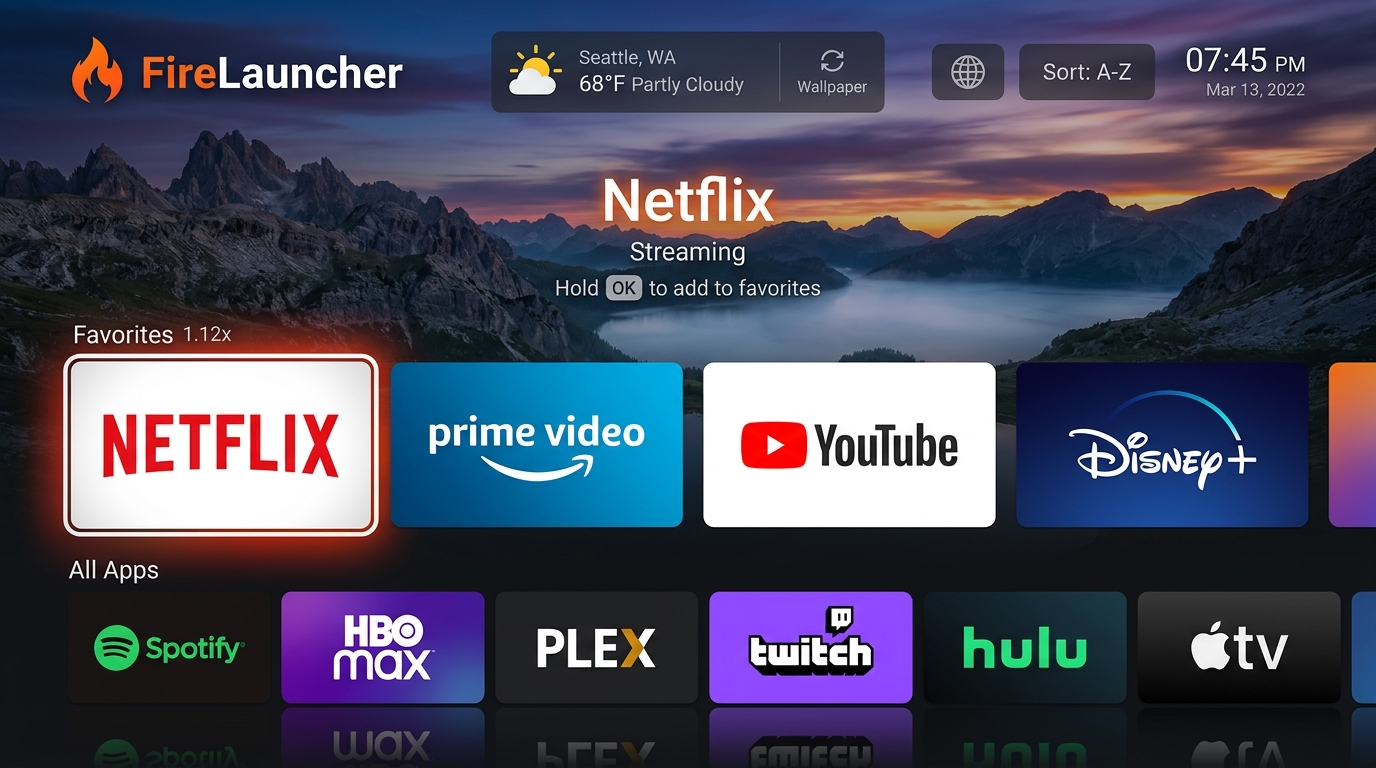
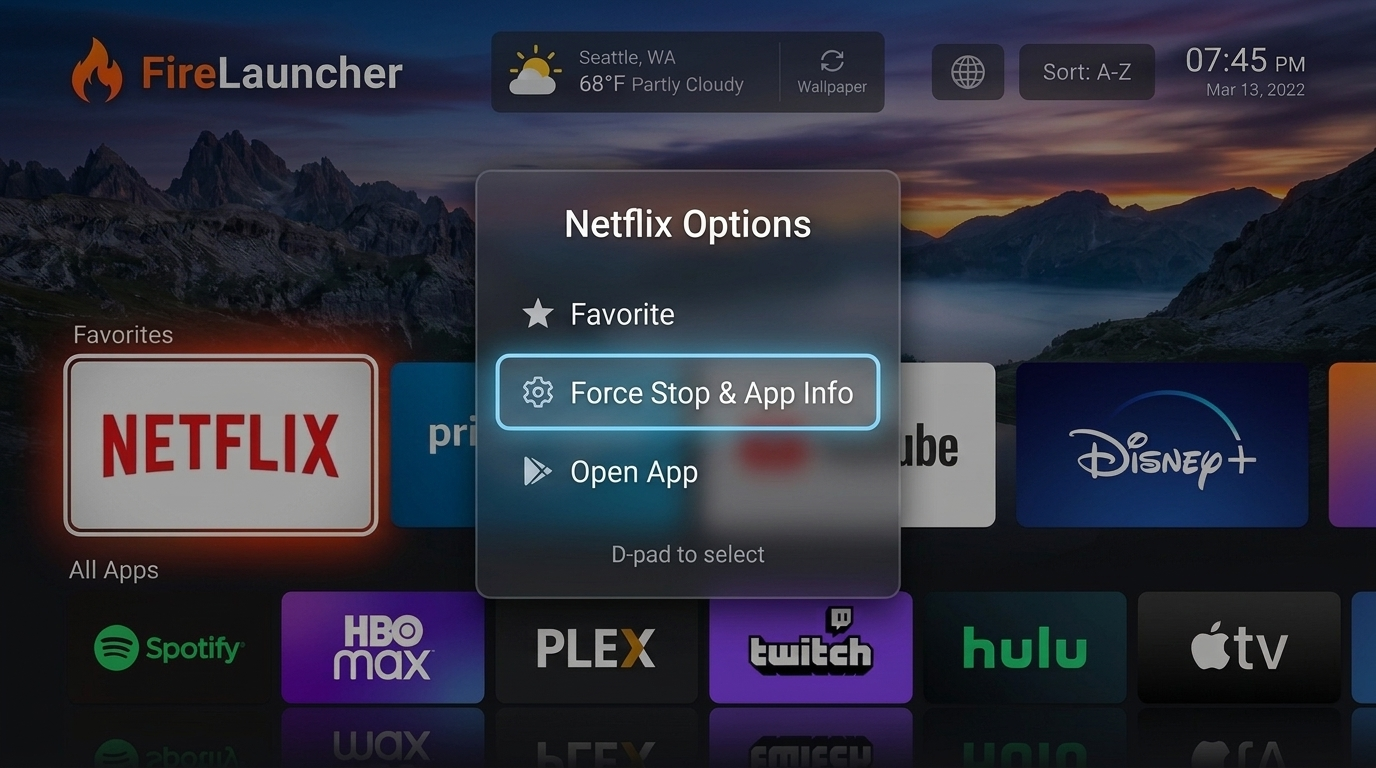
docs: update README and screenshots
Update project documentation and screenshots to reflect the latest UI enhancements, including live weather, dynamic background support, and the app options context menu.

diff --git a/src/data/projectFiles.ts b/src/data/projectFiles.ts
@@ -3562,7 +3562,9 @@ class MainActivity : ComponentActivity() {
 A high-performance custom home-screen launcher designed specifically for **Amazon Fire TV (Fire OS)**, built in Kotlin using **Jetpack Compose for TV (tv-material)**, **MVVM architecture**, **Preferences DataStore**, and **AndroidX Palette** for dynamic ambient theming.
 
 <p align="center">
-  <img src="docs/firelauncher_screenshot.jpg" alt="FireLauncher Interface Preview" width="100%" />
+  <img src="docs/firelauncher_screenshot.jpg" alt="FireLauncher Interface Preview - Dynamic r/TVWallpapersSFW Background, Live Weather, and App Options Context Menu" width="100%" />
+  <br/>
+  <em>FireLauncher on Fire TV: Dynamic 4K wallpaper, live Open-Meteo weather, A–Z / Recent / Frequent sorting, and D-pad App Options menu (Force Stop / App Info & Favorites)</em>
 </p>
 
 ## Key Highlights

diff --git a/README.md b/README.md
@@ -3,7 +3,9 @@
 A high-performance custom home-screen launcher designed specifically for **Amazon Fire TV (Fire OS)**, built in Kotlin using **Jetpack Compose for TV (tv-material)**, **MVVM architecture**, **Preferences DataStore**, and **AndroidX Palette** for dynamic ambient theming.
 
 <p align="center">
-  <img src="docs/firelauncher_screenshot.jpg" alt="FireLauncher Interface Preview" width="100%" style="border-radius: 12px; box-shadow: 0 10px 30px rgba(0,0,0,0.5);" />
+  <img src="docs/firelauncher_screenshot.jpg" alt="FireLauncher Interface Preview - Dynamic r/TVWallpapersSFW Background, Live Weather, and App Options Context Menu" width="100%" style="border-radius: 12px; box-shadow: 0 10px 30px rgba(0,0,0,0.5);" />
+  <br/>
+  <em>FireLauncher on Fire TV: Dynamic 4K wallpaper, live Open-Meteo weather, A–Z / Recent / Frequent sorting, and D-pad App Options menu (Force Stop / App Info & Favorites)</em>
 </p>
 
 ---
